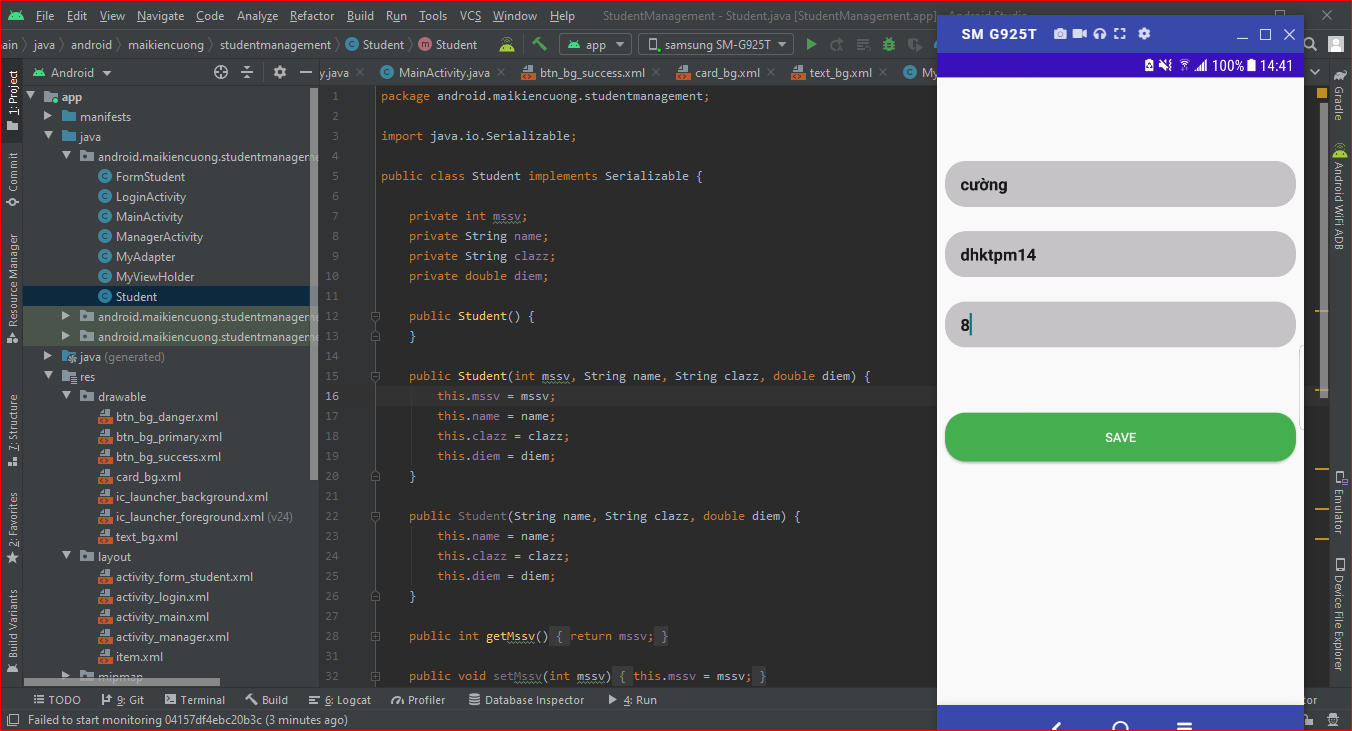
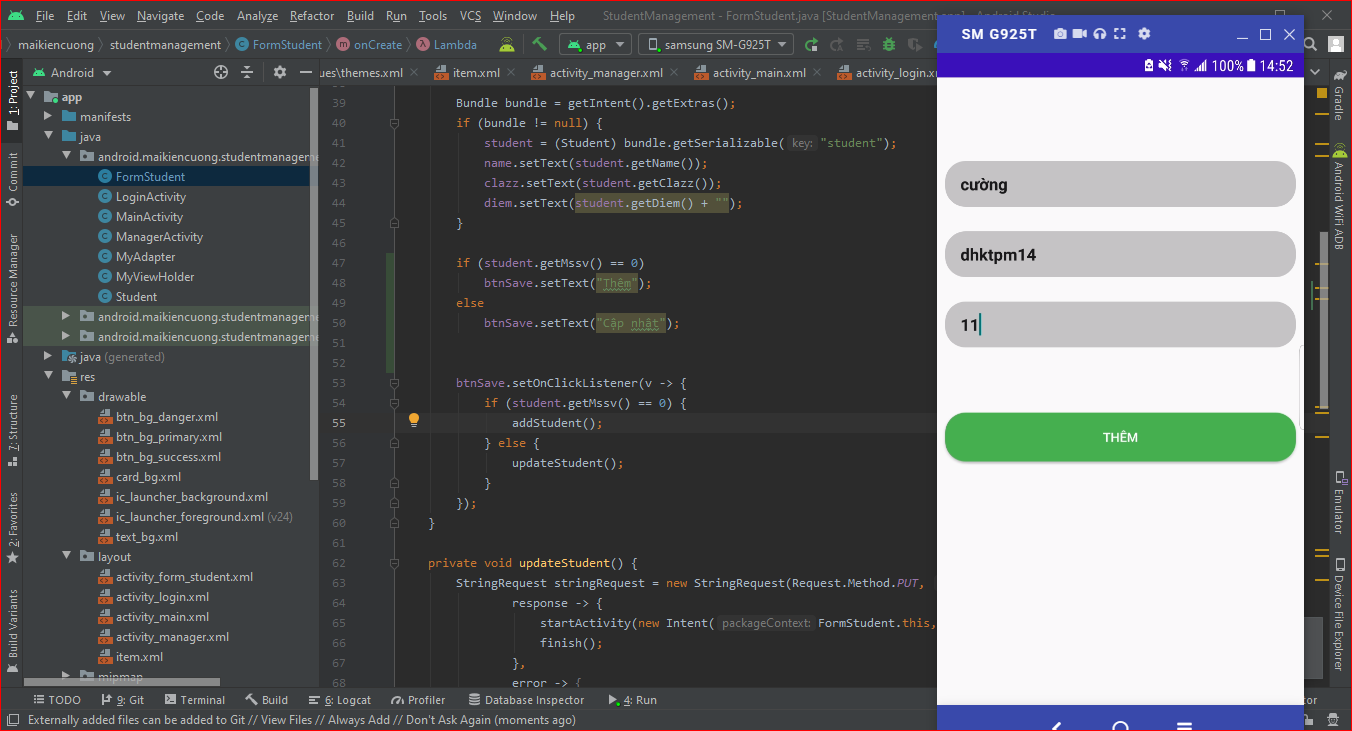
update project result picture

diff --git a/app/src/main/java/android/maikiencuong/studentmanagement/FormStudent.java b/app/src/main/java/android/maikiencuong/studentmanagement/FormStudent.java
@@ -44,6 +44,12 @@ public class FormStudent extends AppCompatActivity {
             diem.setText(student.getDiem() + "");
         }
 
+        if (student.getMssv() == 0)
+            btnSave.setText("Thêm");
+        else
+            btnSave.setText("Cập nhật");
+
+
         btnSave.setOnClickListener(v -> {
             if (student.getMssv() == 0) {
                 addStudent();
